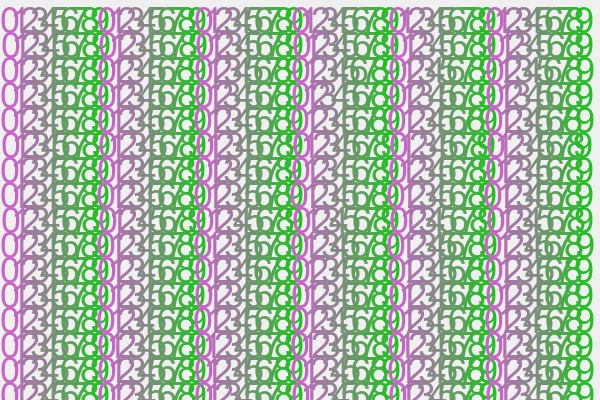
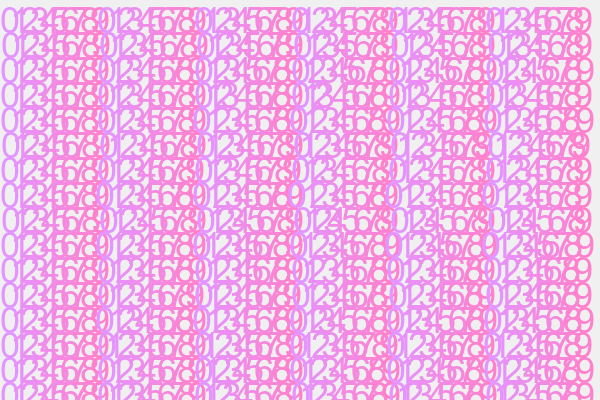
enabled custom color under preset2

diff --git a/mainwindow.py b/mainwindow.py
@@ -76,18 +76,16 @@ class MainWindow(QMainWindow):
         self.ui.source_numbers_text.textChanged.connect(self.src_num_changed)
         self.ui.import_btn.clicked.connect(self.import_via_builtin_file_select)
 
-        
-        self.ui.save_btn.clicked.connect(self.spawn_custom_gradient_window) #TODO remove later
-
         # ======================== gradient combo box =======================
         self.ui.gradient_select.currentIndexChanged.connect(self.update_gradient_settings)
         self.collection_gradients = [sn.grad_none, 
                                      sn.grad_pink_to_green,
                                      sn.grad_pink_to_green]
 
-        # ====================== gradient custom button =====================
+        # ====================== gradient customs =====================
         self.ui.btn_customize.clicked.connect(self.spawn_custom_gradient_window)
-        self.diag_gradient_is_setup = False
+        self.custom_gradient_dialog_been_setup = False
+        self.custom_gradient_functions = [] #TODO: support more than one gradient callable
 
         # =========================== preview_img =========================== 
         self.reload_image()
@@ -338,11 +336,11 @@ class MainWindow(QMainWindow):
 
     # def setup_gradient_diag_logic(self, grad_diag):
     #     grad_diag.btn_edit_start_color.clicked.connect(self.report_window_height)
-
+    # ========================== Spawning Custom Color Picker ==========================
     def spawn_custom_gradient_window(self):
-        if not self.diag_gradient_is_setup:
+        if not self.custom_gradient_dialog_been_setup:
             self.ui_gradient_diag = color_select_dialog.get_gradient_diaglog(self)
-            self.diag_gradient_is_setup = True
+            self.custom_gradient_dialog_been_setup = True
         self.ui_gradient_diag.exec_()
 
     # ========================= Interface Functions w Color Picker ========================

diff --git a/color_select_dialog.py b/color_select_dialog.py
@@ -62,6 +62,7 @@ class CustomGradientWindow(Ui_Dialog):
 
         # by now we assume the image is generated, we will look for 'gradient_preview.png'
         self.line_preview.setPixmap("gradient_preview.png")
+        return custom_grad_function
 
     def update_color(self, associated_button=None, associated_label=None, color_type=None):
         """
@@ -72,7 +73,6 @@ class CustomGradientWindow(Ui_Dialog):
         """
 
         color = QColorDialog.getColor()
-        print(type(color))
         if color.isValid():
             self.selected_colors[color_type] = color
             r = color.red()
@@ -96,7 +96,11 @@ class CustomGradientWindow(Ui_Dialog):
 
             associated_label.setText(f"<html><head/><body><p>{color_type}: <span style=\" font-weight:700;\">({r}, {g}, {b})</span></p></body></html>")
 
-            self.generate_and_set_preview()
+            user_custom_grad = self.generate_and_set_preview()
+
+            # TODO: next two lines need to be streamlined in the future to support multiple custom gradients
+            self.mainwindow.custom_gradient_functions.append(user_custom_grad)
+            self.mainwindow.collection_gradients[-1] = user_custom_grad
 
 def get_gradient_diaglog(mainwindow):
     ret = CustomGradientWindow(mainwindow)
